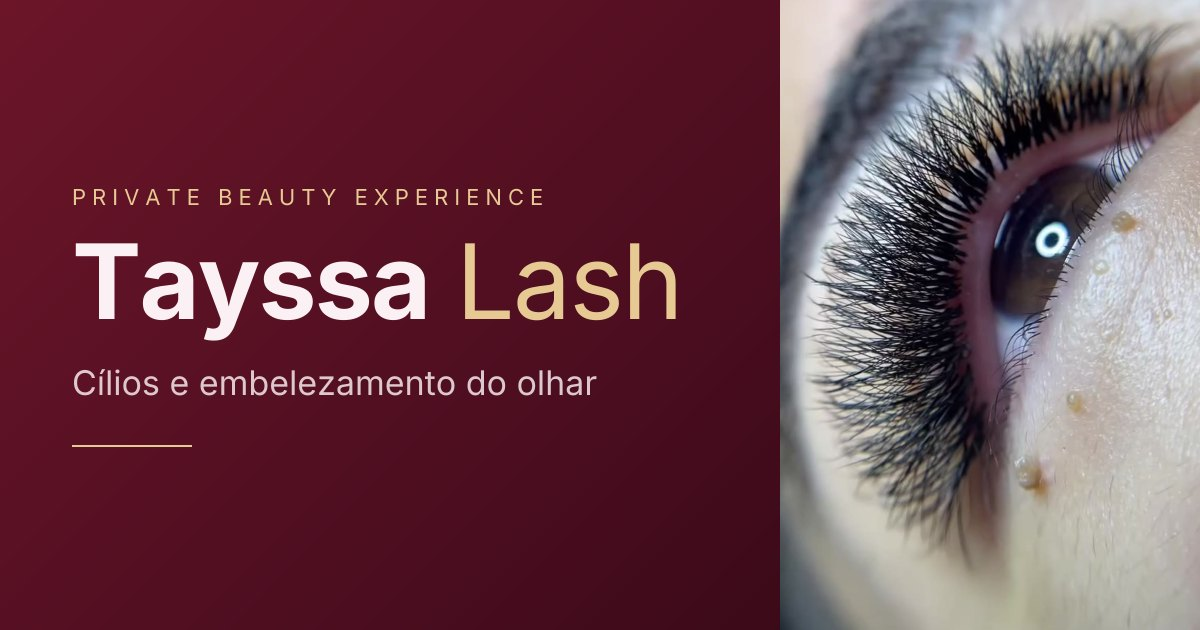
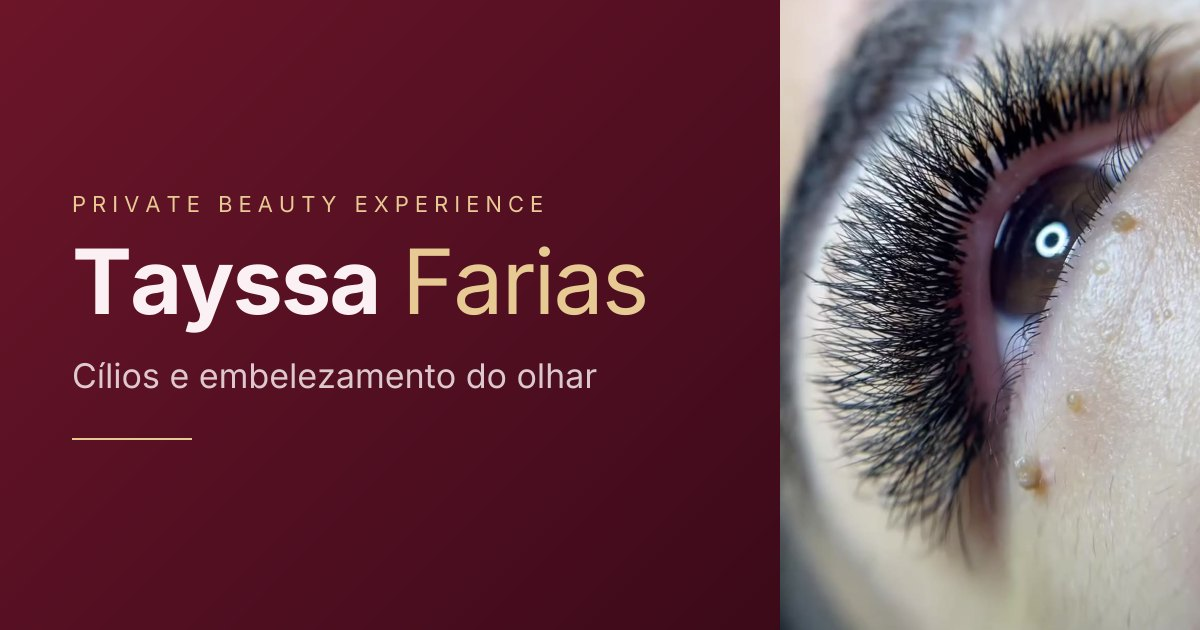
Tayssa: o site passa a se chamar Tayssa Farias, como o domínio
Marca do topo, abertura, menu, painel, cartão VIP, títulos das páginas,
nome do app, avisos, cartão do horário e a imagem de compartilhamento
(refeita) dizem "Tayssa Farias" no lugar de "Tayssa Lash". O nome da
abertura ganha folga para caber numa linha no celular.

Claude-Session: https://claude.ai/code/session_014BdZUYKWHRjKZ5HeFaYMF8

diff --git a/app/tayssa/layout.tsx b/app/tayssa/layout.tsx
@@ -35,16 +35,16 @@ const inter = localFont({
   adjustFontFallback: "Arial",
 });
 
-const TITLE = "Tayssa Lash — Private Beauty Experience";
+const TITLE = "Tayssa Farias · Cílios e embelezamento do olhar";
 const DESCRIPTION =
   "Cílios e embelezamento do olhar, com uma experiência privada para clientes selecionadas: fidelidade, indicação e aniversário.";
 
 export const metadata: Metadata = {
   metadataBase: new URL(PUBLIC_ORIGIN),
   // absolute: o título da Tayssa não herda o "· Tráfego DDG" do painel
-  title: { absolute: TITLE, template: "%s · Tayssa Lash" },
+  title: { absolute: TITLE, template: "%s · Tayssa Farias" },
   description: DESCRIPTION,
-  applicationName: "Tayssa Lash",
+  applicationName: "Tayssa Farias",
   // com `icons` declarado, o apple-icon.tsx não entra sozinho no <head>
   icons: { icon: "/tayssa/favicon.svg", apple: "/tayssa/apple-icon" },
   openGraph: {
@@ -52,7 +52,7 @@ export const metadata: Metadata = {
     description: DESCRIPTION,
     type: "website",
     locale: "pt_BR",
-    siteName: "Tayssa Lash",
+    siteName: "Tayssa Farias",
   },
   // a imagem vem de opengraph-image.tsx; no X/Twitter, cartão grande
   twitter: { card: "summary_large_image", title: TITLE, description: DESCRIPTION },

diff --git a/app/tayssa/horario/[id]/opengraph-image.tsx b/app/tayssa/horario/[id]/opengraph-image.tsx
@@ -9,7 +9,7 @@ import { diaLegivel, horaLegivel, prazoDoSinal, reais } from "@/lib/tayssa/agend
  * dourado da casa, serviço, dia, hora, valor e o sinal. Sem nome nem
  * contato de ninguém: o link abre sem login.
  */
-export const alt = "Seu horário com a Tayssa Lash";
+export const alt = "Seu horário com a Tayssa Farias";
 export const size = { width: 1200, height: 630 };
 export const contentType = "image/png";
 
@@ -54,7 +54,7 @@ export default async function Imagem({ params }: { params: Promise<{ id: string 
       <div style={{ display: "flex", alignItems: "center", justifyContent: "space-between" }}>
         <div style={{ display: "flex", alignItems: "baseline", fontSize: 44, letterSpacing: -1 }}>
           <span style={{ fontWeight: 700 }}>Tayssa</span>
-          <span style={{ marginLeft: 12, fontWeight: 400, color: "#e8bf86" }}>Lash</span>
+          <span style={{ marginLeft: 12, fontWeight: 400, color: "#e8bf86" }}>Farias</span>
         </div>
         {h ? (
           <div

diff --git a/components/tayssa/public/intro-loader.tsx b/components/tayssa/public/intro-loader.tsx
@@ -16,7 +16,7 @@ type Fase = "boot" | "risca" | "cor" | "abre" | "fim";
  *
  * 1. risca  — sobre o vinho do teto do estúdio, a flor da parede se
  *             desenha em contorno, pétala por pétala;
- * 2. cor    — a flor ganha cor e abre; "Tayssa" e "Lash" deslizam para
+ * 2. cor    — a flor ganha cor e abre; "Tayssa" e "Farias" deslizam para
  *             fora de trás dela, um para cada lado;
  * 3. abre   — as palavras somem e a flor cresce até virar a janela: o
  *             véu tem um furo no formato dela, que se expande e revela o
@@ -143,7 +143,7 @@ export function IntroLoader({ onDone }: { onDone: () => void }) {
                 animate={{ x: comCor && !abre ? "0%" : "-105%" }}
                 transition={{ duration: 0.9, ease: EASE, delay: comCor && !abre ? 0.28 : 0 }}
               >
-                <em>Lash</em>
+                <em>Farias</em>
               </motion.span>
             </span>
           </motion.div>

diff --git a/components/tayssa/ui/brand.tsx b/components/tayssa/ui/brand.tsx
@@ -3,13 +3,13 @@ import { Bloom } from "@/components/tayssa/flora/bloom";
 /**
  * A marca: a flor da parede do estúdio flutuando ao lado do nome. Uma peça
  * só, usada em todas as telas — público, entrada, app da cliente e rodapé.
- * A cor do nome vem de quem usa (currentColor); "Lash" leva o rosé da casa.
+ * A cor do nome vem de quem usa (currentColor); "Farias" leva o rosé da casa.
  */
 export function TyBrand({
   size = "md",
   className,
   name = "Tayssa",
-  suffix = "Lash",
+  suffix = "Farias",
 }: {
   size?: "md" | "sm";
   className?: string;
@@ -24,7 +24,7 @@ export function TyBrand({
         <Bloom seed={5} tom="magenta" />
       </span>
       <span className="ty-brand__name">
-        {/* espaço no mesmo texto do nome (sozinho, o Chrome lia "TayssaLash") */}
+        {/* espaço no mesmo texto do nome (sozinho, o Chrome lia "TayssaFarias") */}
         {`${name} `}
         <em>{suffix}</em>
       </span>

diff --git a/app/tayssa/identidade.css b/app/tayssa/identidade.css
@@ -1233,8 +1233,8 @@ body:has(.ty-scope[data-theme="night"]) {
   flex-wrap: nowrap;
   justify-content: center;
   column-gap: 0.22em;
-  /* "Tayssa Lash" inteiro numa linha, com margem dos dois lados */
-  font-size: min(calc((100vw - var(--t-gutter) * 2) / 6.4), 168px);
+  /* "Tayssa Farias" inteiro numa linha, com margem dos dois lados */
+  font-size: min(calc((100vw - var(--t-gutter) * 2) / 7.4), 160px);
   font-weight: 600;
   letter-spacing: -0.05em;
   line-height: 1;
@@ -2018,7 +2018,7 @@ body:has(.ty-scope[data-theme="night"]) {
 }
 
 /* ---------- rodada de confirmação (Impeccable): contraste e ritmo ---------- */
-/* "Lash" da marca: rosé escuro no branco, rosé claro no escuro */
+/* "Farias" da marca: rosé escuro no branco, rosé claro no escuro */
 .ty-scope .ty-brand__name em {
   color: var(--t-rosa-texto);
 }

diff --git a/components/tayssa/auth/entrada.tsx b/components/tayssa/auth/entrada.tsx
@@ -13,7 +13,7 @@ import { MarcaViva } from "@/components/tayssa/ui/marca-viva";
 export function Entrada({
   children,
   links,
-  aviso = "Área privada da Tayssa Lash",
+  aviso = "Área privada da Tayssa Farias",
 }: {
   children: ReactNode;
   /** caminhos do rodapé, além de "Site" */
@@ -26,7 +26,7 @@ export function Entrada({
       <FundoVivo />
       <div className="tyl__page">
         <main className="tyl__centro">
-          <TransitionLink href={ROUTES.home} className="tyl__marca tyl-surge" aria-label="Tayssa Lash, voltar ao site">
+          <TransitionLink href={ROUTES.home} className="tyl__marca tyl-surge" aria-label="Tayssa Farias, voltar ao site">
             <MarcaViva />
           </TransitionLink>
           {children}

diff --git a/components/tayssa/admin/sidebar.tsx b/components/tayssa/admin/sidebar.tsx
@@ -109,14 +109,14 @@ export function AdminSidebar({
         <span className="tya-vivo__luz tya-vivo__luz--2" />
         <span className="tya-vivo__grade" />
       </div>
-      <TransitionLink href={ROUTES.admin} className="tya-side__brand" aria-label="Tayssa Lash — painel" onClick={onFechar}>
+      <TransitionLink href={ROUTES.admin} className="tya-side__brand" aria-label="Tayssa Farias, painel" onClick={onFechar}>
         <span className="tya-side__mark" aria-hidden>
           T
         </span>
         {!min ? (
           <span className="tya-side__name">
             <b>
-              Tayssa <em>Lash</em>
+              Tayssa <em>Farias</em>
             </b>
             <span>Painel</span>
           </span>

diff --git a/lib/tayssa/config.ts b/lib/tayssa/config.ts
@@ -284,7 +284,7 @@ const HORAS_TER_SEX = ["09:00", "10:00", "11:00", "12:00", "13:00", "14:00", "15
 
 export const DEFAULT_SETTINGS: Settings = {
   business: {
-    name: "Tayssa Lash",
+    name: "Tayssa Farias",
     tagline: "Private Beauty Experience",
     specialty: "Cílios e embelezamento do olhar",
     whatsapp: "5511999827606",
@@ -365,7 +365,7 @@ export const DEFAULT_SETTINGS: Settings = {
   signup: {
     open: true,
     welcome_template:
-      "Oi, {name}! Seu acesso ao Tayssa Lash foi liberado. Entre por aqui: {url}",
+      "Oi, {name}! Seu acesso ao site da Tayssa Farias foi liberado. Entre por aqui: {url}",
   },
   // números só da Tayssa: nada inventado — vazio, o quadro não aparece
   numeros: {

diff --git a/components/tayssa/public/nav.tsx b/components/tayssa/public/nav.tsx
@@ -95,12 +95,12 @@ export function PublicNav({
         data-solid={solid && !open}
         data-menu={open}
       >
-        <TransitionLink href={ROUTES.home} aria-label="Tayssa Lash, início" className="ty-nav__marca">
+        <TransitionLink href={ROUTES.home} aria-label="Tayssa Farias, início" className="ty-nav__marca">
           <span className="ty-nav__flor" aria-hidden>
             <Bloom seed={5} tom="magenta" />
           </span>
           <span className="ty-nav__nome">
-            Tayssa <em>Lash</em>
+            Tayssa <em>Farias</em>
           </span>
         </TransitionLink>
 

diff --git a/components/tayssa/ui/pagar-sinal.tsx b/components/tayssa/ui/pagar-sinal.tsx
@@ -142,7 +142,7 @@ export function PagarSinal({
       .then((r) => (r.ok ? r.blob() : Promise.reject(new Error(`cartão ${r.status}`))))
       .then((blob) => {
         if (!vivo) return;
-        const foto = new File([blob], "horario-tayssa-lash.png", { type: "image/png" });
+        const foto = new File([blob], "horario-tayssa-farias.png", { type: "image/png" });
         const podeFoto = typeof navigator.canShare === "function" && navigator.canShare({ files: [foto] });
         if (previaRef.current) URL.revokeObjectURL(previaRef.current);
         previaRef.current = URL.createObjectURL(blob);

diff --git a/lib/tayssa/cartao-foto.tsx b/lib/tayssa/cartao-foto.tsx
@@ -89,7 +89,7 @@ function Foto({ h, sinal, horas, tolerancia }: { h: HorarioPublico; sinal: numbe
       <div style={{ display: "flex", alignItems: "center", justifyContent: "space-between" }}>
         <div style={{ display: "flex", alignItems: "baseline", fontSize: 54, letterSpacing: -1.5 }}>
           <span style={{ fontWeight: 700 }}>Tayssa</span>
-          <span style={{ marginLeft: 14, color: OURO }}>Lash</span>
+          <span style={{ marginLeft: 14, color: OURO }}>Farias</span>
         </div>
         <div
           style={{

diff --git a/components/tayssa/public/hero.tsx b/components/tayssa/public/hero.tsx
@@ -122,7 +122,7 @@ export function Hero({
 
   const temJanela = Boolean(photo) || temVideo(video) || estrutura;
   // o nome dela entra letra a letra: sobe, gira de leve no eixo X e ganha foco
-  const [primeira = "Tayssa", segunda = "Lash"] = business.name.trim().split(/\s+/);
+  const [primeira = "Tayssa", segunda = "Farias"] = business.name.trim().split(/\s+/);
   const letras = (palavra: string, base: number) =>
     Array.from(palavra).map((l, i) => (
       <motion.span
